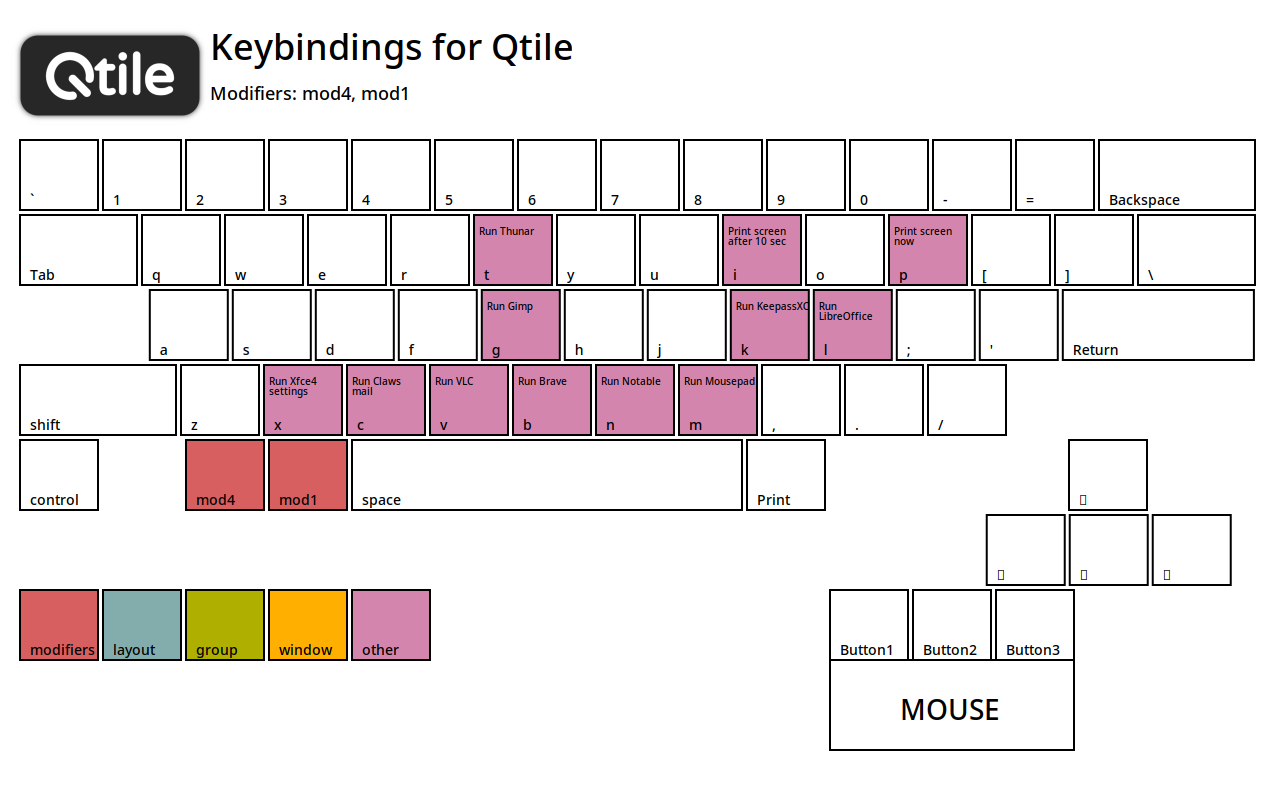
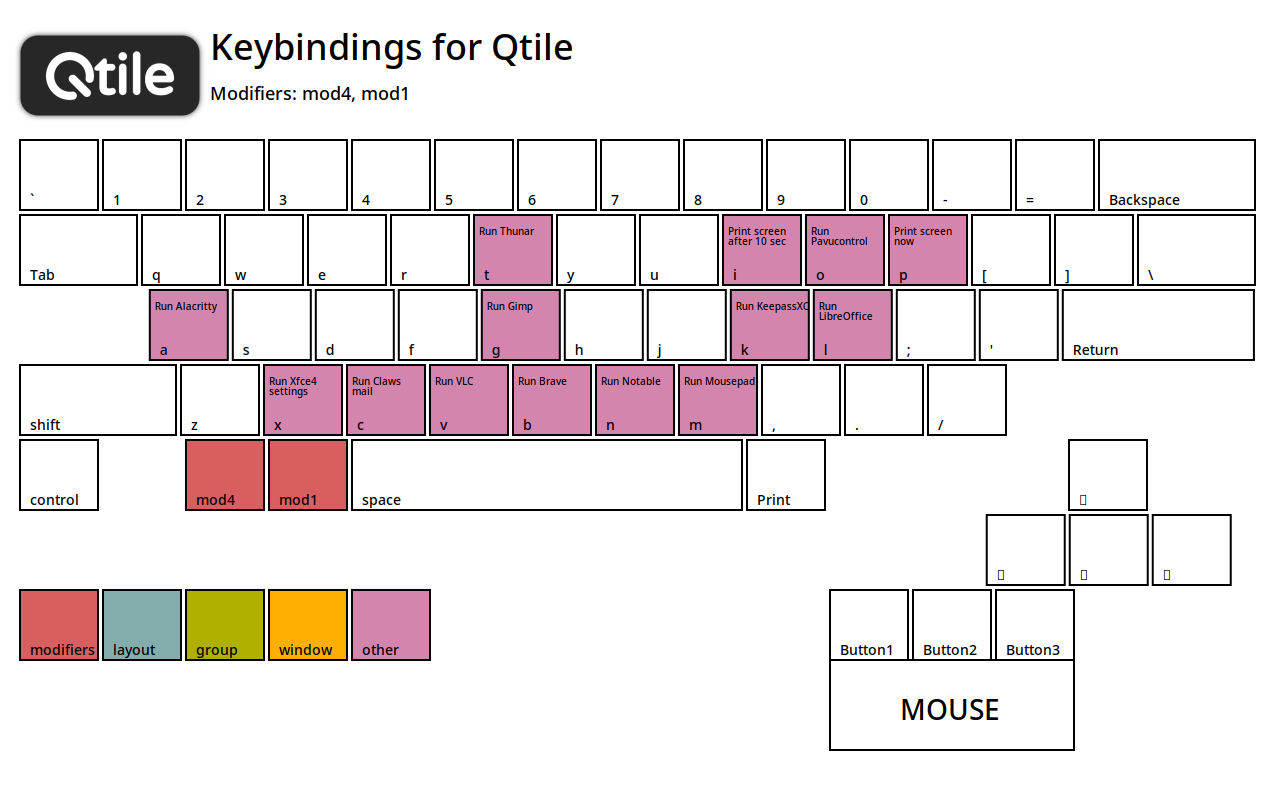
add multiple display settings, etc

Changed region(s): [[0.0938, 0.3438, 0.1875, 0.4688], [0.625, 0.25, 0.6875, 0.375]]

diff --git a/modules/groups.py b/modules/groups.py
@@ -14,6 +14,8 @@ from modules.variables import mod1, mod4, terminal_guess
 #
 import re
 
+# NOTE: How can I get my groups to stick to screens? -- Qtile:Frequently Asked Questions
+# https://docs.qtile.org/en/stable/manual/faq.html#how-can-i-get-my-groups-to-stick-to-screens
 
 
 groups = [
@@ -25,6 +27,7 @@ groups = [
     # layouts = [layout.VerticalTile(), layout.TreeTab()],
     # layouts = ['verticaltile', 'max'],
     layout = 'verticaltile',
+    screen_affinity = 0,
     init = True, persist = True,
     matches = [Match(wm_class = re.compile(r"^(kitty)$"))],
   ),
@@ -37,57 +40,118 @@ groups = [
 
   Group(name = '3', position = 3, label = '3.web',
     layout = 'max',
+    screen_affinity = 0,
     init = True, persist = True,
     matches = [Match(wm_class = re.compile(r"^(brave-browser|firefox)$"))],
   ),
 
   Group(name = '4', position = 4, label = '4.tool',
     layout = 'max',
+    screen_affinity = 0,
     init = True, persist = True,
     matches = [Match(wm_class = re.compile(r"^(keepassxc|Notable|Yad|Virt-manager|Mousepad|Thunar)$"))],
   ),
 
   Group(name = '5', position = 5, label = '5.misc',
     layout = 'treetab',
+    screen_affinity = 0,
     init = True, persist = True,
     matches = [Match(wm_class = re.compile(r"^(libreoffice|Gimp|Claws-mail)$"))],
   ),
 
   # TODO: Add Virt-manager workspace?
 
+
+  Group(name = '7', position = 7, label = '7.Sub-1',
+    layout = 'max',
+    screen_affinity = 1,
+    init = True, persist = True,
+    matches = [Match(wm_class = re.compile(r"^(alacritty)$"))],
+  ),
+
+  Group(name = '8', position = 8, label = '8.Sub-2',
+    layout = 'max',
+    screen_affinity = 1,
+    init = True, persist = True,
+  ),
+
+
   Group(name = '9', position = 9, label = '9.null',
     layout = 'max',
+    screen_affinity = 0,
     init = True, persist = True,
   ),
 ]
 
 
+def go_to_group(name: str):
+  def _inner(qtile):
+    if len(qtile.screens) == 1:
+      qtile.groups_map[name].toscreen()
+      return
+
+    if name in '123459':
+      qtile.focus_screen(0)
+      qtile.groups_map[name].toscreen()
+    else:
+      qtile.focus_screen(1)
+      qtile.groups_map[name].toscreen()
+
+  return _inner
+
+def go_to_group_and_move_window(name: str):
+  def _inner(qtile):
+    if len(qtile.screens) == 1:
+      qtile.current_window.togroup(name, switch_group = True)
+      return
+
+    if name in '123459':
+      qtile.current_window.togroup(name, switch_group = False)
+      qtile.focus_screen(0)
+      qtile.groups_map[name].toscreen()
+    else:
+      qtile.current_window.togroup(name, switch_group = False)
+      qtile.focus_screen(1)
+      qtile.groups_map[name].toscreen()
+
+  return _inner
+
 for i in groups:
-  keys.extend([
+  keys.append(
+    Key([mod4], i.name, lazy.function(go_to_group(i.name)))
+  )
+  keys.append(
+    Key([mod4, 'shift'], i.name, lazy.function(go_to_group_and_move_window(i.name)))
+  )
+
+
+# for i in groups:
+  # keys.extend([
     # mod4 + group number = switch to group
-    Key([mod4], i.name,
-      lazy.group[i.name].toscreen(),
-      desc = 'Switch to group {}'.format(i.name),
-    ),
+    ## Key([mod4], i.name,
+    ##   lazy.group[i.name].toscreen(),
+    ##   desc = 'Switch to group {}'.format(i.name),
+    ## ),
 
     # mod4 + shift + group number = switch to & move focused window to group
-    Key([mod4, 'shift'], i.name,
-      lazy.window.togroup(i.name, switch_group = True),
-      desc = 'Switch to & move focused window to group {}'.format(i.name),
-    ),
+    ## Key([mod4, 'shift'], i.name,
+    ##   lazy.window.togroup(i.name, switch_group = True),
+    ##   desc = 'Switch to & move focused window to group {}'.format(i.name),
+    ## ),
 
     # Or, use below if you prefer not to switch to that group.
     # # mod4 + shift + group number = move focused window to group
     # Key([mod4, "shift"], i.name, lazy.window.togroup(i.name),
     #     desc="move focused window to group {}".format(i.name)),
-  ])
+  # ])
 
-  keys.append(
-    Key(['control', 'mod1'], f'f{i.name}',
-      lazy.core.change_vt(i.name).when(func = lambda: qtile.core.name == 'wayland'),
-      desc = f'Switch to VT{i.name}',
-    )
-  )
+  # keys.append(
+  #   Key(['control', 'mod1'], f'f{i.name}',
+  #     lazy.core.change_vt(i.name).when(func = lambda: qtile.core.name == 'wayland'),
+  #     desc = f'Switch to VT{i.name}',
+  #   )
+  # )
+
 
 # We can't check qtile.core.name in default config as it is loaded before qtile is started
 # We therefore defer the check until the key binding is run by using .when(func=...)

diff --git a/modules/keys.py b/modules/keys.py
@@ -57,13 +57,21 @@ keys = [
 
   # Grow windows. If current window is on the edge of screen and direction
   # will be to screen edge - window would shrink.
-  Key([mod4, 'control'], 'h', lazy.layout.grow_left(),  desc = 'Grow window to the left'),
-  Key([mod4, 'control'], 'l', lazy.layout.grow_right(), desc = 'Grow window to the right'),
-  Key([mod4, 'control'], 'j', lazy.layout.grow_down(),  desc = 'Grow window down'),
-  Key([mod4, 'control'], 'k', lazy.layout.grow_up(),    desc = 'Grow window up'),
+  Key([mod4, 'control'], 'h', lazy.layout.grow_left(),  desc = 'Grow window to left'),
+  Key([mod4, 'control'], 'l', lazy.layout.grow_right(), desc = 'Grow window to right'),
+  Key([mod4, 'control'], 'j', lazy.layout.grow_down(),  desc = 'Grow window to down'),
+  Key([mod4, 'control'], 'k', lazy.layout.grow_up(),    desc = 'Grow window to up'),
 
   ## Key([mod4, 'shift', 'control'], 'h', lazy.layout.swap_column_left(),  desc = 'Swap Column left'),
   ## Key([mod4, 'shift', 'control'], 'l', lazy.layout.swap_column_right(), desc = 'Swap Column right'),
+
+  Key([mod4], 'Up',    lazy.window.move_floating(0, -10), desc = 'Move floating window to up'),
+  Key([mod4], 'Down',  lazy.window.move_floating(0, 10),  desc = 'Move floating window to down'),
+  Key([mod4], 'Left',  lazy.window.move_floating(-10, 0), desc = 'Move floating window to left'),
+  Key([mod4], 'Right', lazy.window.move_floating(10, 0),  desc = 'Move floating window to right'),
+
+  Key([mod4, 'shift'], 'Up',   lazy.window.resize_floating(0, 10),  desc = 'Resize floating window to large'),
+  Key([mod4, 'shift'], 'Down', lazy.window.resize_floating(0, -10), desc = 'Resize floating window to small'),
 
   # Toggle between split and unsplit sides of stack.
   # Split = all windows displayed
@@ -93,6 +101,12 @@ keys = [
   Key([mod4], 'Tab',    lazy.next_layout(),         desc = 'Toggle between layouts'),
 
 
+  # NOTE: Multiple monitor?
+  # Key([mod4], 'o', lazy.to_screen(0), desc = 'To Main Screen'),
+  # Key([mod4], 'p', lazy.to_screen(1), desc = 'To Sub Screen'),
+  Key([mod4], 'period', lazy.next_screen(), desc='Next monitor'),
+
+
   # Key([], 'Print',
   #   lazy.spawn("scrot -z -p 'EndeavourOS_Qtile_%Y-%m-%d_%H-%M-%S.png' -e ' mv $f ~/Pictures/'"),
   #   desc = 'Print screen'
@@ -107,11 +121,8 @@ keys = [
   # `my_scrot_wait` is `command scrot -c -d 10 -z -p "EndeavourOS_Qtile_%Y-%m-%d_%H-%M-%S.png" -e "mv \$f ~/Pictures/"`
   Key([mod4, mod1], 'i', lazy.spawn("fish -c 'my_scrot_wait'"), desc = 'Print screen after 10 sec'),
 
-  # Key([mod4, mod1], 'p',
-  #   lazy.function(lambda: os.system("fish -c 'my_scrot_now'")),
-  #   desc = 'Print screen now'),
-  # Key([mod], "f", lazy.function(lambda: os.system("fish -c 'my_function'")))
 
+  Key([mod4, mod1], 'a', lazy.spawn('alacritty'),              desc = 'Run Alacritty'),
   Key([mod4, mod1], 'b', lazy.spawn('brave'),                  desc = 'Run Brave'),
   Key([mod4, mod1], 'c', lazy.spawn('claws-mail'),             desc = 'Run Claws mail'),
   Key([mod4, mod1], 'g', lazy.spawn('gimp'),                   desc = 'Run Gimp'),
@@ -119,6 +130,7 @@ keys = [
   Key([mod4, mod1], 'l', lazy.spawn('libreoffice'),            desc = 'Run LibreOffice'),
   Key([mod4, mod1], 'm', lazy.spawn('mousepad'),               desc = 'Run Mousepad'),
   Key([mod4, mod1], 'n', lazy.spawn('notable'),                desc = 'Run Notable'),
+  Key([mod4, mod1], 'o', lazy.spawn('pavucontrol'),            desc = 'Run Pavucontrol'),
   Key([mod4, mod1], 't', lazy.spawn('thunar'),                 desc = 'Run Thunar'),
   Key([mod4, mod1], 'v', lazy.spawn('vlc'),                    desc = 'Run VLC'),
   Key([mod4, mod1], 'x', lazy.spawn('xfce4-settings-manager'), desc = 'Run Xfce4 settings'),

diff --git a/modules/screens_bar.py b/modules/screens_bar.py
@@ -12,7 +12,7 @@ from libqtile.config import Screen
 #
 from qtile_extras import widget
 from qtile_extras.widget.decorations import PowerLineDecoration
-## from qtile_extras.resources import wallpapers
+from qtile_extras.resources import wallpapers
 ## from libqtile import widget
 #
 from modules.variables import default_wallpaper, font_set, current_gengou_reiwa, custom_icon_path
@@ -91,6 +91,8 @@ screens = [
         # Uptime(),
 
         widget.GroupBox(
+          visible_groups = ['1', '2', '3', '4', '5', '9'],
+
           fontsize = 18,
           font = font_set['main'],
 
@@ -158,6 +160,20 @@ screens = [
 
         ## ------------------------------------
 
+        # TODO: When Cmus is not launched,
+        #  the width is set to zero and the page is not displayed.
+        # widget.Cmus(
+        #   fontsize = 16,
+        #   font = font_set['main'],
+        #   scroll = True,
+        #   scroll_fixed_width = True,
+        #   width = 50,
+        #   playing_color = Theme_Colors['LightBlue'],
+        #   stopped_color = Theme_Colors['Oreange'],
+        #   background = Theme_Colors['DarkBlue_default'],
+        #   **powerline,
+        # ),
+
         widget.CPU(
           format = 'CPU: {load_percent}%',
           # format = 'CPU: {freq_current}GHz {load_percent}%',
@@ -182,6 +198,10 @@ screens = [
         widget.ThermalZone(
           high = 31,
           crit = 41, 
+
+          format = '{temp}°C',
+          format_crit = '{temp}°C!!',
+          # format_crit = '{temp}°C CRIT!',
 
           padding = 4,
           fontsize = 16,
@@ -357,6 +377,64 @@ screens = [
     # By default we handle these events delayed to already improve performance, however your system might still be struggling
     # This variable is set to None (no cap) by default, but you can set it to 60 to indicate that you limit it to 60 events per second
     # x11_drag_polling_rate = 60,
+  ),
+
+  #
+  # NOTE: Multiple monitor
+  # TODO: I want to manage the same settings separately.
+  #
+
+  Screen(
+    wallpaper = wallpapers.WALLPAPER_TRIANGLES,
+    wallpaper_mode = 'fill',
+
+    bottom = bar.Bar(
+      [
+        widget.CurrentLayoutIcon(
+          padding = 4,
+          scale = 0.8,
+
+          custom_icon_paths = custom_icon_path,
+          foreground = Theme_Colors['Debug'],
+          background = Theme_Colors['DarkBlue_default'],
+        ),
+
+        widget.GroupBox(
+          visible_groups = ['7', '8'],
+
+          fontsize = 18,
+          font = font_set['main'],
+
+          margin = 0,
+          margin_x = 0,
+          margin_y = 4,
+
+          active = Theme_Colors['LightBlue'],
+          block_highlight_text_color = Theme_Colors['Oreange'],
+          borderwidth = 0,
+
+          inactive = Theme_Colors['Purple'],
+          foreground = Theme_Colors['Debug'],
+          background = Theme_Colors['DarkBlue_default'],
+
+          **powerline,
+        ),
+
+        widget.WindowTabs(
+          fontsize = 18,
+          font = font_set['sub1'],
+
+          markup = True,
+          selected = ('<u>', '</u>'),
+          padding = 0,
+
+          foreground = Theme_Colors['LightBlue'],
+          background = Theme_Colors['DarkBlue_lighten'],
+        ),
+
+      ], 
+      24, 
+    ),
   ),
 ]
 

diff --git a/modules/hooks.py b/modules/hooks.py
@@ -7,7 +7,7 @@
 #
 
 #
-from libqtile import hook
+from libqtile import hook, qtile, widget
 # from libqtile import hook, qtile
 # from libqtile.utils import send_notification
 from libqtile.log_utils import logger
@@ -20,6 +20,9 @@ import subprocess
 
 
 logger.setLevel('INFO')
+
+groupbox1 = widget.GroupBox(visible_groups = ['1', '2', '3', '4', '5', '9'])
+groupbox2 = widget.GroupBox(visible_groups = ['7', '8'])
 
 
 @hook.subscribe.startup_once
@@ -44,6 +47,16 @@ def autostart():
 def run_every_startup():
   logger.info('Hook: restart')
   # send_notification('qtile', 'Restarting...')
+
+
+@hook.subscribe.screens_reconfigured
+async def _():
+  if len(qtile.screens) > 1:
+    groupbox1.visible_groups = ['1', '2', '3', '4', '5', '9']
+  else:
+    groupbox1.visible_groups = ['1', '2', '3', '4', '5', '7', '8', '9']
+  if hasattr(groupbox1, 'bar'):
+    groupbox1.bar.draw()
 
 
 # def set_wallpaper_for_group(group_name):

diff --git a/README.md b/README.md
@@ -9,6 +9,12 @@
 > I suggest forking the repository and modifying it according to your preferences.
 
 
+> [!NOTE]
+> As of late May 2025, I am adding a multi-monitor setup.  
+> I'm still adjusting and don't always use multiple screens though.  
+> <a href="https://github.com/dollplayer2501/dollplayer2501/blob/main/EndeavourOS_Qtile_2025-05-23_19-52-39.png"><img src="https://raw.githubusercontent.com/dollplayer2501/dollplayer2501/refs/heads/main/EndeavourOS_Qtile_2025-05-23_19-52-39.png" width=600 /></a>
+
+
 ## About:
 
 This is just a simple Qtile configuration files.  
